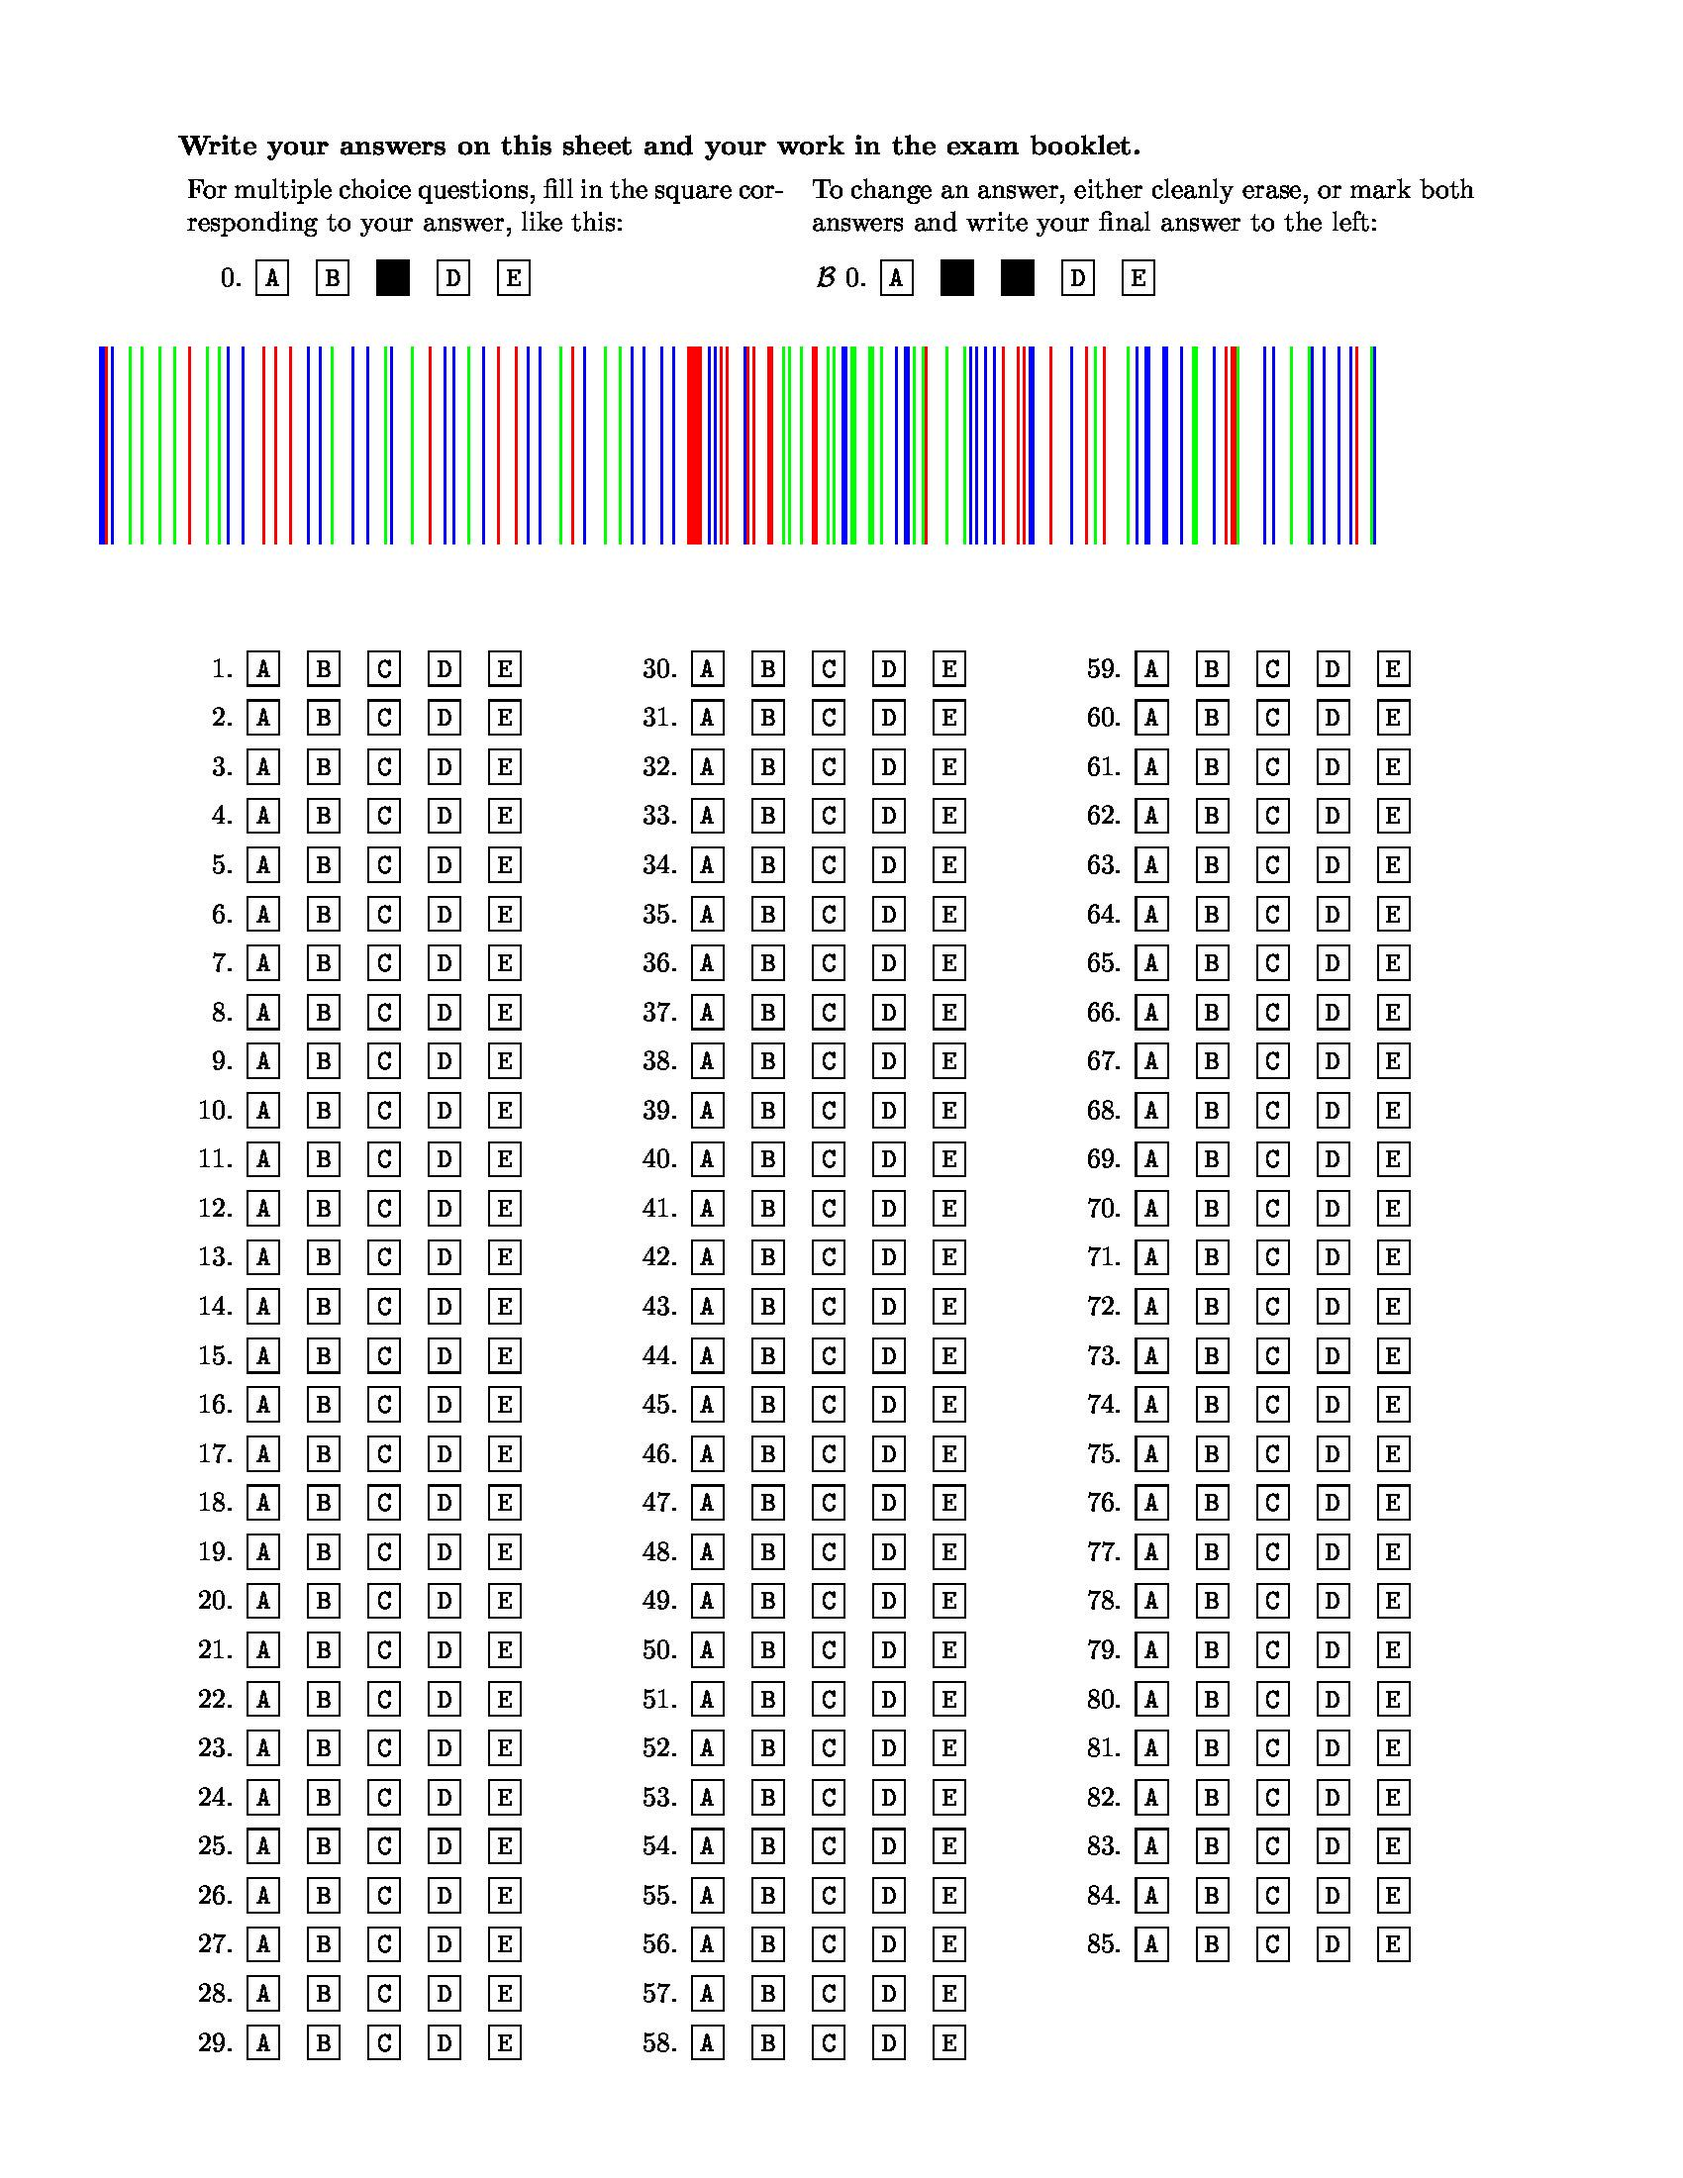
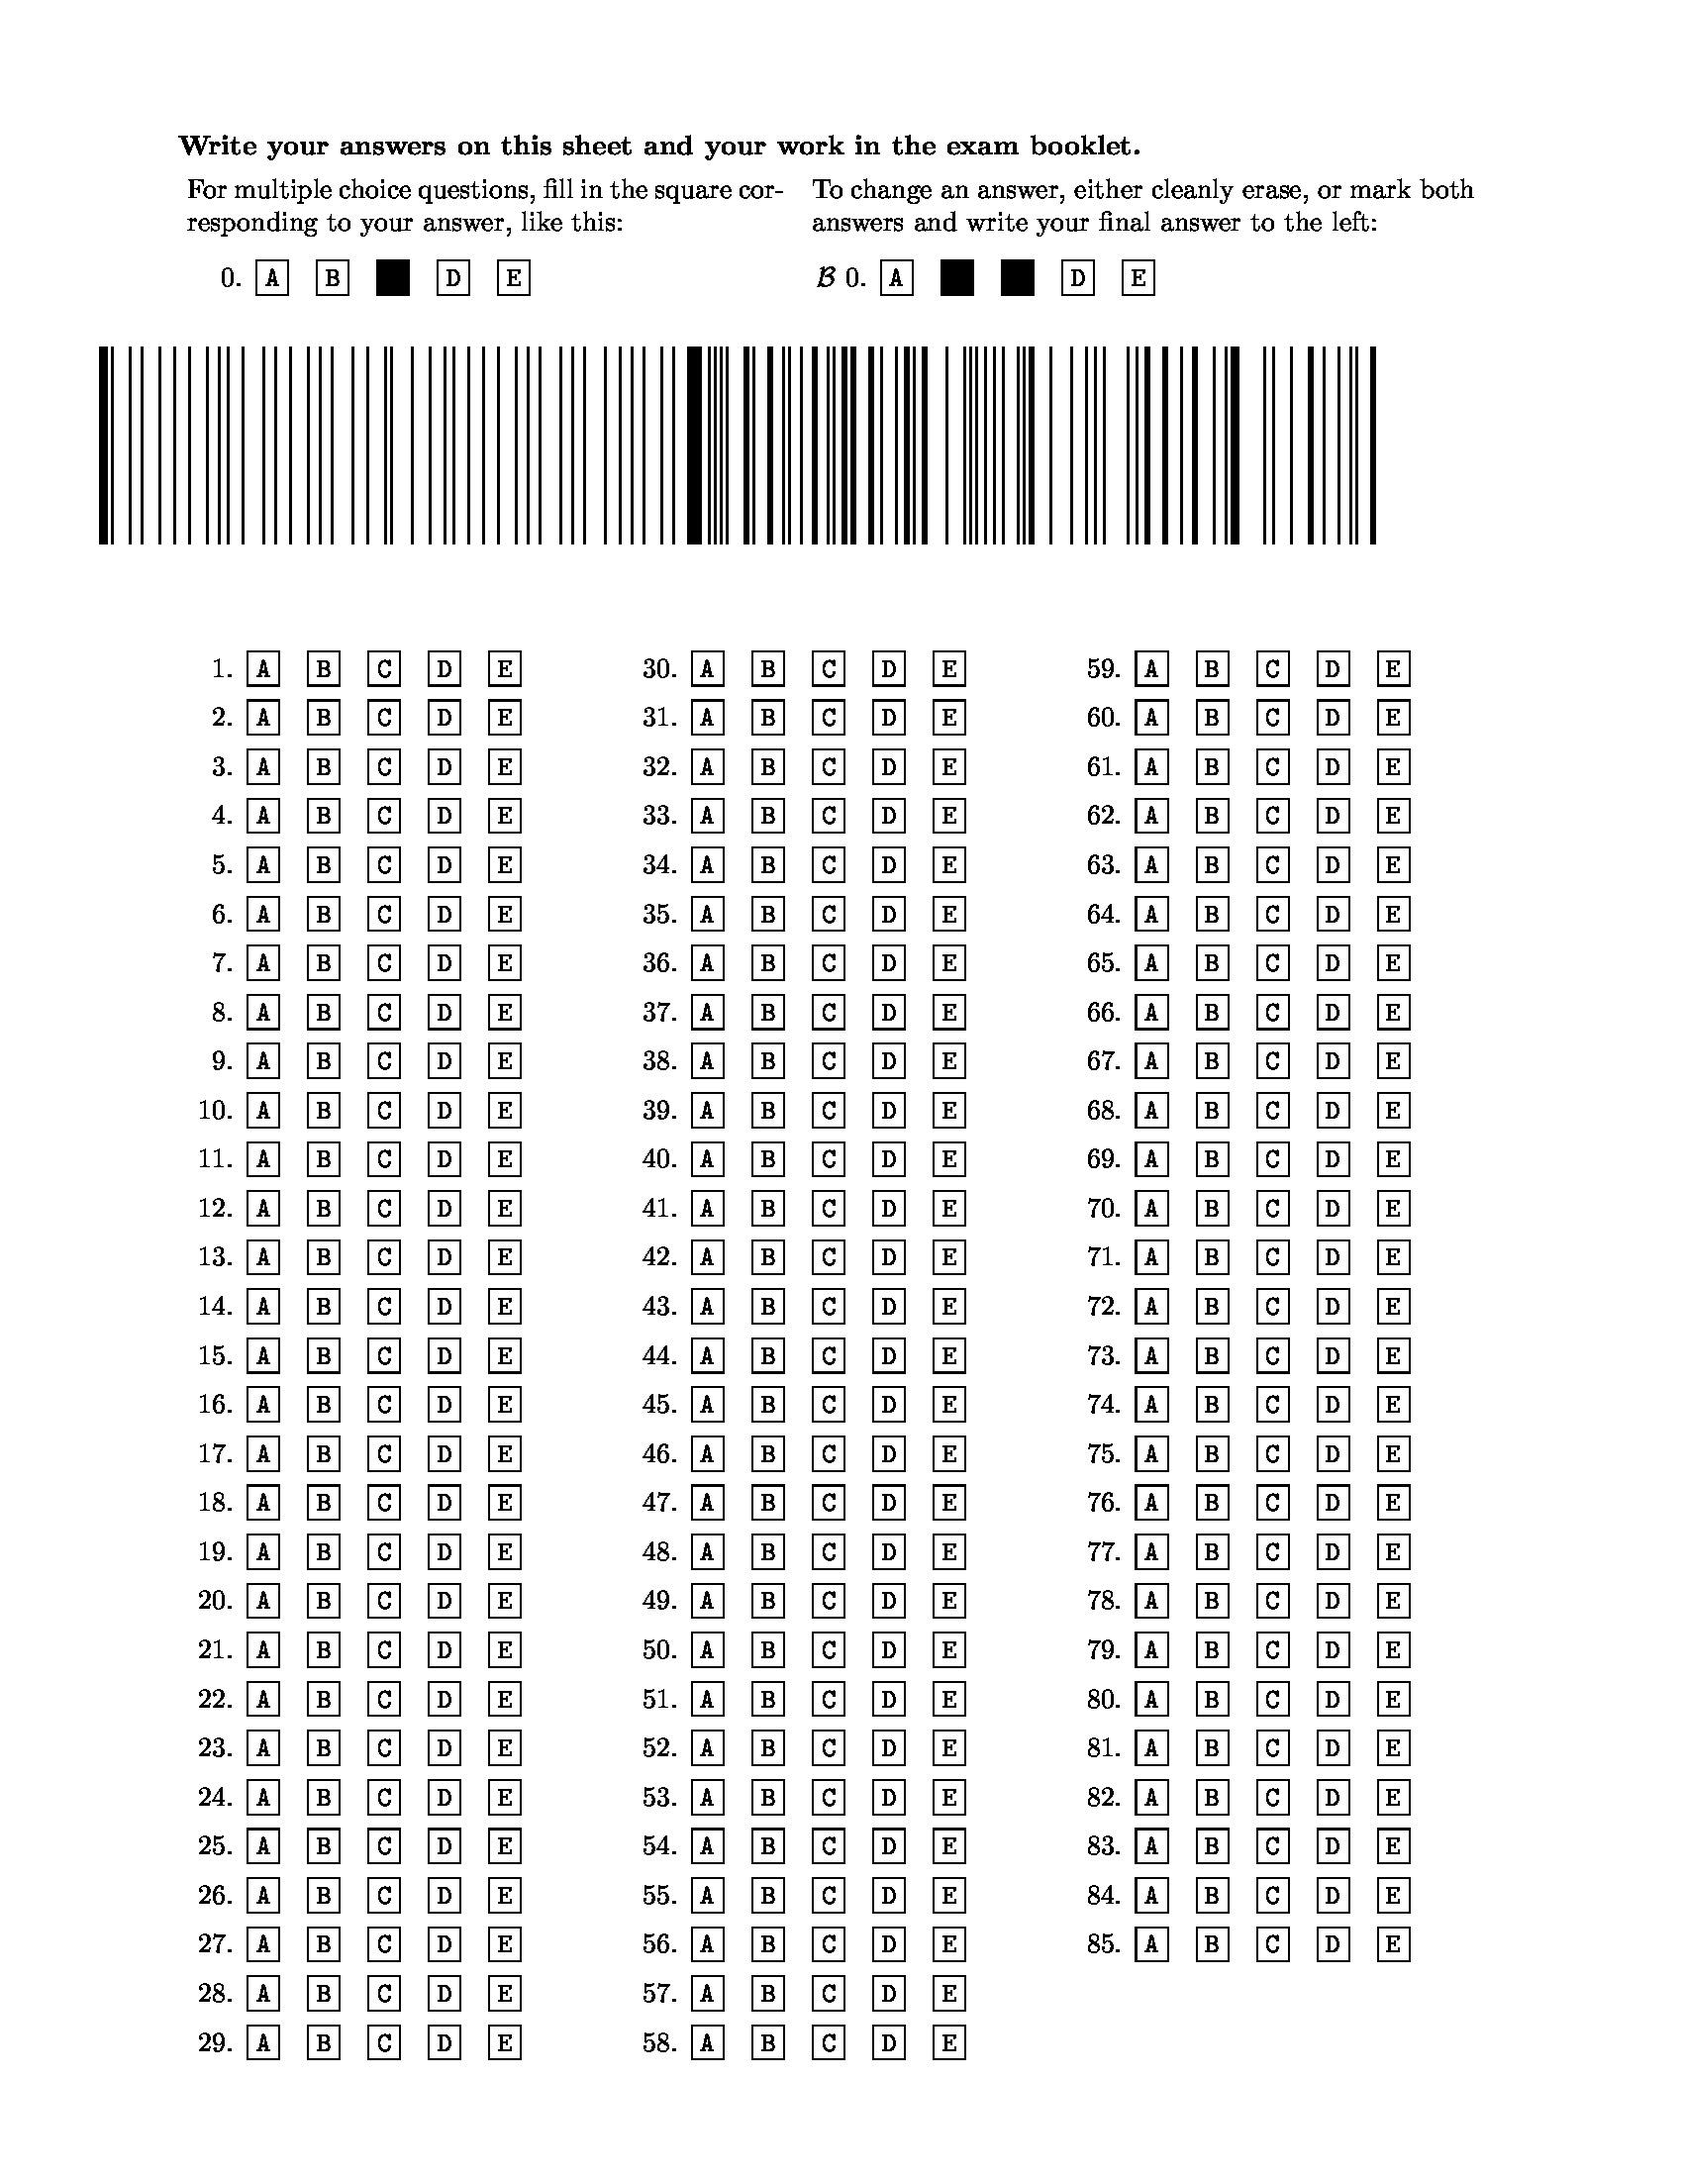
working extract

Changed region(s): [[0.0312, 0.1545, 0.8418, 0.2473]]

diff --git a/extract.py b/extract.py
@@ -39,61 +39,28 @@ def get_barcode(px, width):
     rear_spacer = 2
     bar_width = 3
 
-    for i in range(width-x):
+    barcode = []
+    #find front pixels
+    for i in range(x,width-x):
+        probe_total = sum([1 for z in range(i,i+front_spacer*bar_width) if px[z,y] < 255])
+        if probe_total == front_spacer*bar_width:
+            break
+    front = i
+
+    #find read pixels
+    for i in range(width-x-1,-1,-1):
+        probe_total = sum([1 for z in range(i,i-rear_spacer*bar_width,-1) if px[z,y] < 255])
+        if probe_total == rear_spacer*bar_width:
+            print(i)
+            break
+        pass
         
 
-    barcode = []
     return barcode
     
 def decode(barcode):
     answers = {}
     return answers
-
-def print_barcode(answers,px):
-    # Will print a muti-colored barcode with each answer.  added color to imply
-    # meaning, no actual meaning, just to throw students off
-    color_options = [(255,0,0),(0,255,0),(0,0,255)] # rgb
-    
-    #starting position
-    x, y = 100,350
-    white = (255,255,255)
-    options = list('ABCDE')
-    bar_width = 3
-
-    # Add leading element so we know barcode begins
-    # this spacer tells it to ignore the first 5 symbols it picks up.
-    # unless you know this, the answers will not make sense
-    # for each test, this could be unique
-    spacer = 3 
-    for space in range(spacer):
-        color = choice(color_options)
-        for i in range(bar_width):
-            for j in range(200):
-                px[x+i,y+j] = color
-        x += bar_width
-    
-    # encode answers
-    for question in range(1,len(answers)+1):
-        color = choice(color_options)
-        for letter in options:
-            for i in range(bar_width):
-                for j in range(200):
-                    if answers[question][letter] == True:  
-                        px[x+i,y+j] = color
-                    else:
-                        px[x+i,y+j] = white
-            x += bar_width
-
-    # end bar, similarily this could be unique
-    spacer = 2 
-    for space in range(spacer):
-        color = choice(color_options)
-        for i in range(bar_width):
-            for j in range(200):
-                px[x+i,y+j] = color
-        x += bar_width
-        
-    print(x)
 
 def ref_points(px,width,height,location):
     # find the location of reference points
@@ -115,10 +82,16 @@ def rotate_angle(rp1,rp2,cp1,cp2):
     cp_ang = math.degrees(math.atan((cp2[1] - cp1[1])/(cp2[0] - cp1[0])))
     return rp_ang-cp_ang
 
+def stark_difference(px_load, width, height):
+    for x in range(width):
+        for y in range(height):
+            px_load[x,y] = 0 if px_load[x,y] < 160 else 255
+
 def extract(injected_im, output_txt):
     # import injected form
     im = Image.open(injected_im).convert('L')
     px = im.load()
+    im.save("bw-"+injected_im)
     width, height = im.width, im.height
 
     # ensure form hasn't rotate, if it has, rotate it.  New reference points
@@ -134,6 +107,9 @@ def extract(injected_im, output_txt):
     angle_to_rotate = rotate_angle(rp1,rp2,cp1,cp2)
     im2 = im.rotate(angle_to_rotate)
     px2 = im2.load()
+
+    # filter out any noise introduced reimporting it.
+    stark_difference(px2,width,height)
 
     # get barcode
     barcode = get_barcode(px2, width)

diff --git a/inject.py b/inject.py
@@ -53,6 +53,7 @@ def print_barcode(answers,px):
     white = (255,255,255)
     options = list('ABCDE')
     bar_width = 3
+    color = (0,0,0)
 
     # Add leading element so we know barcode begins
     # this spacer tells it to ignore the first 5 symbols it picks up.
@@ -60,7 +61,7 @@ def print_barcode(answers,px):
     # for each test, this could be unique
     front_spacer = 3 
     for space in range(front_spacer):
-        color = choice(color_options)
+        # color = choice(color_options)
         for i in range(bar_width):
             for j in range(200):
                 px[x+i,y+j] = color
@@ -68,7 +69,7 @@ def print_barcode(answers,px):
     
     # encode answers
     for question in range(1,len(answers)+1):
-        color = choice(color_options)
+        # color = choice(color_options)
         for letter in options:
             for i in range(bar_width):
                 for j in range(200):
@@ -81,7 +82,7 @@ def print_barcode(answers,px):
     # end bar, similarily this could be unique
     rear_spacer = 2 
     for space in range(rear_spacer):
-        color = choice(color_options)
+        # color = choice(color_options)
         for i in range(bar_width):
             for j in range(200):
                 px[x+i,y+j] = color
